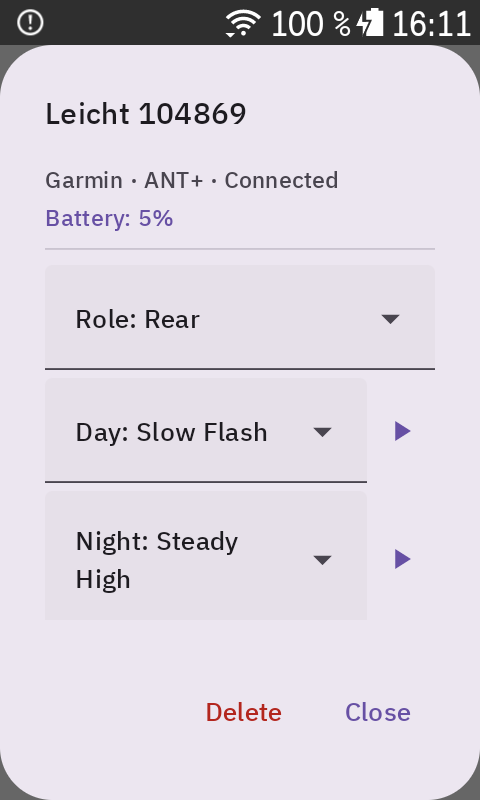
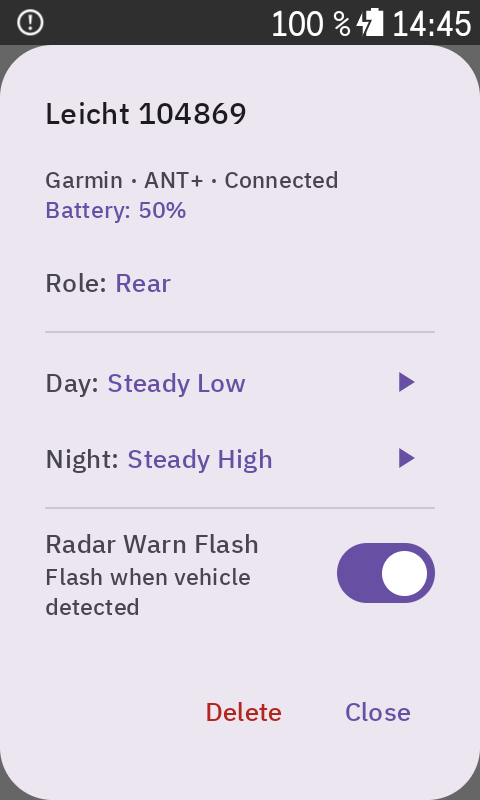
Add per-light radar warn flash and redesign light detail dialog
Radar warn flash: per-light toggle for rear lights that temporarily
switches to fast flash when radar detects approaching vehicle while
light is set to off. Uses karoo-ext SDK radar stream API.

Light detail dialog: replace bulky TextFields with compact inline
dropdowns, better visual structure with dividers.

diff --git a/app/src/main/kotlin/io/github/derstrassi/karoofirefly/ui/screens/LightDetailDialog.kt b/app/src/main/kotlin/io/github/derstrassi/karoofirefly/ui/screens/LightDetailDialog.kt
@@ -1,38 +1,34 @@
 package io.github.derstrassi.karoofirefly.ui.screens
 
+import androidx.compose.foundation.clickable
 import androidx.compose.foundation.layout.Arrangement
 import androidx.compose.foundation.layout.Column
 import androidx.compose.foundation.layout.Row
 import androidx.compose.foundation.layout.Spacer
 import androidx.compose.foundation.layout.fillMaxWidth
 import androidx.compose.foundation.layout.height
-import androidx.compose.foundation.layout.heightIn
 import androidx.compose.foundation.layout.padding
 import androidx.compose.foundation.layout.size
-import androidx.compose.foundation.layout.width
 import androidx.compose.foundation.rememberScrollState
 import androidx.compose.foundation.verticalScroll
 import androidx.compose.material.icons.Icons
 import androidx.compose.material.icons.filled.PlayArrow
 import androidx.compose.material3.AlertDialog
+import androidx.compose.material3.DropdownMenu
+import androidx.compose.material3.DropdownMenuItem
+import androidx.compose.material3.HorizontalDivider
 import androidx.compose.material3.Icon
 import androidx.compose.material3.IconButton
-import androidx.compose.material3.DropdownMenuItem
-import androidx.compose.material3.ExperimentalMaterial3Api
-import androidx.compose.material3.ExposedDropdownMenuBox
-import androidx.compose.material3.ExposedDropdownMenuDefaults
-import androidx.compose.material3.HorizontalDivider
 import androidx.compose.material3.MaterialTheme
-import androidx.compose.material3.MenuAnchorType
+import androidx.compose.material3.Switch
 import androidx.compose.material3.Text
 import androidx.compose.material3.TextButton
-import androidx.compose.material3.TextField
-import androidx.compose.ui.Alignment
 import androidx.compose.runtime.Composable
 import androidx.compose.runtime.getValue
 import androidx.compose.runtime.mutableStateOf
 import androidx.compose.runtime.remember
 import androidx.compose.runtime.setValue
+import androidx.compose.ui.Alignment
 import androidx.compose.ui.Modifier
 import androidx.compose.ui.unit.dp
 import io.github.derstrassi.karoofirefly.DiscoveredLight
@@ -42,7 +38,6 @@ import io.github.derstrassi.karoofirefly.data.LightProtocol
 import io.github.derstrassi.karoofirefly.data.LightRole
 import io.github.derstrassi.karoofirefly.data.modeProviderFor
 
-@OptIn(ExperimentalMaterial3Api::class)
 @Composable
 fun LightDetailDialog(
     light: DiscoveredLight,
@@ -56,6 +51,7 @@ fun LightDetailDialog(
     var role by remember(assignment) { mutableStateOf(assignment?.role) }
     var dayMode by remember(assignment) { mutableStateOf(assignment?.dayMode ?: "OFF") }
     var nightMode by remember(assignment) { mutableStateOf(assignment?.nightMode ?: "OFF") }
+    var radarWarnFlash by remember(assignment) { mutableStateOf(assignment?.radarWarnFlash ?: false) }
 
     fun save() {
         if (role != null) {
@@ -67,6 +63,7 @@ fun LightDetailDialog(
                     protocol = light.protocol,
                     dayMode = dayMode,
                     nightMode = nightMode,
+                    radarWarnFlash = radarWarnFlash,
                 ),
             )
         } else {
@@ -119,7 +116,6 @@ fun LightDetailDialog(
         title = { Text(light.name, style = MaterialTheme.typography.titleMedium) },
         text = {
             Column(modifier = Modifier.verticalScroll(rememberScrollState())) {
-                // Status info
                 val statusParts = listOfNotNull(
                     light.manufacturer,
                     protocolLabel,
@@ -135,7 +131,6 @@ fun LightDetailDialog(
                 light.batteryPercent?.let { telemetryParts.add("Battery: $it%") }
                 light.temperature?.let { telemetryParts.add("Temp: ${it}°C") }
                 if (telemetryParts.isNotEmpty()) {
-                    Spacer(modifier = Modifier.height(4.dp))
                     Text(
                         telemetryParts.joinToString("  "),
                         style = MaterialTheme.typography.bodySmall,
@@ -143,12 +138,9 @@ fun LightDetailDialog(
                     )
                 }
 
-                Spacer(modifier = Modifier.height(8.dp))
-                HorizontalDivider()
-                Spacer(modifier = Modifier.height(8.dp))
+                Spacer(modifier = Modifier.height(12.dp))
 
-                // Role selector
-                OptionDropdown(
+                InlineDropdown(
                     label = "Role",
                     selectedId = role?.name ?: "None",
                     options = listOf("FRONT" to "Front", "REAR" to "Rear", "None" to "None"),
@@ -168,8 +160,9 @@ fun LightDetailDialog(
                 )
 
                 if (role != null) {
-                    Spacer(modifier = Modifier.height(4.dp))
-                    LightModeWithTest(
+                    HorizontalDivider(modifier = Modifier.padding(vertical = 8.dp))
+
+                    ModeRow(
                         label = "Day",
                         selectedMode = dayMode,
                         modes = modes,
@@ -179,7 +172,7 @@ fun LightDetailDialog(
                         } else null,
                     )
                     Spacer(modifier = Modifier.height(4.dp))
-                    LightModeWithTest(
+                    ModeRow(
                         label = "Night",
                         selectedMode = nightMode,
                         modes = modes,
@@ -188,6 +181,28 @@ fun LightDetailDialog(
                             { onTestMode(light.id, nightMode) }
                         } else null,
                     )
+
+                    if (role == LightRole.REAR) {
+                        HorizontalDivider(modifier = Modifier.padding(vertical = 8.dp))
+                        Row(
+                            modifier = Modifier.fillMaxWidth(),
+                            horizontalArrangement = Arrangement.SpaceBetween,
+                            verticalAlignment = Alignment.CenterVertically,
+                        ) {
+                            Column(modifier = Modifier.weight(1f)) {
+                                Text("Radar Warn Flash")
+                                Text(
+                                    "Flash when vehicle detected",
+                                    style = MaterialTheme.typography.bodySmall,
+                                    color = MaterialTheme.colorScheme.onSurfaceVariant,
+                                )
+                            }
+                            Switch(
+                                checked = radarWarnFlash,
+                                onCheckedChange = { radarWarnFlash = it; save() },
+                            )
+                        }
+                    }
                 }
             }
         },
@@ -195,15 +210,18 @@ fun LightDetailDialog(
 }
 
 @Composable
-private fun LightModeWithTest(
+private fun ModeRow(
     label: String,
     selectedMode: String,
     modes: List<LightModeOption>,
     onSelected: (String) -> Unit,
     onTest: (() -> Unit)?,
 ) {
-    Row(verticalAlignment = Alignment.CenterVertically) {
-        OptionDropdown(
+    Row(
+        modifier = Modifier.fillMaxWidth(),
+        verticalAlignment = Alignment.CenterVertically,
+    ) {
+        InlineDropdown(
             label = label,
             selectedId = selectedMode,
             options = modes.map { it.id to it.displayName },
@@ -211,7 +229,7 @@ private fun LightModeWithTest(
             modifier = Modifier.weight(1f),
         )
         if (onTest != null) {
-            IconButton(onClick = onTest, modifier = Modifier.size(36.dp)) {
+            IconButton(onClick = onTest, modifier = Modifier.size(32.dp)) {
                 Icon(
                     Icons.Default.PlayArrow,
                     contentDescription = "Test $label",
@@ -223,9 +241,8 @@ private fun LightModeWithTest(
     }
 }
 
-@OptIn(ExperimentalMaterial3Api::class)
 @Composable
-private fun OptionDropdown(
+private fun InlineDropdown(
     label: String,
     selectedId: String,
     options: List<Pair<String, String>>,
@@ -235,19 +252,23 @@ private fun OptionDropdown(
     var expanded by remember { mutableStateOf(false) }
     val displayName = options.find { it.first == selectedId }?.second ?: selectedId
 
-    ExposedDropdownMenuBox(
-        expanded = expanded,
-        onExpandedChange = { expanded = it },
-        modifier = modifier,
+    Row(
+        modifier = modifier
+            .clickable { expanded = true }
+            .padding(vertical = 8.dp),
+        verticalAlignment = Alignment.CenterVertically,
     ) {
-        TextField(
-            value = "$label: $displayName",
-            onValueChange = {},
-            readOnly = true,
-            trailingIcon = { ExposedDropdownMenuDefaults.TrailingIcon(expanded) },
-            modifier = Modifier.menuAnchor(MenuAnchorType.PrimaryNotEditable).fillMaxWidth(),
+        Text(
+            "$label: ",
+            style = MaterialTheme.typography.bodyMedium,
+            color = MaterialTheme.colorScheme.onSurfaceVariant,
         )
-        ExposedDropdownMenu(
+        Text(
+            displayName,
+            style = MaterialTheme.typography.bodyMedium,
+            color = MaterialTheme.colorScheme.primary,
+        )
+        DropdownMenu(
             expanded = expanded,
             onDismissRequest = { expanded = false },
         ) {

diff --git a/app/src/main/kotlin/io/github/derstrassi/karoofirefly/KarooLightControllerExtension.kt b/app/src/main/kotlin/io/github/derstrassi/karoofirefly/KarooLightControllerExtension.kt
@@ -7,6 +7,9 @@ import io.hammerhead.karooext.models.PlayBeepPattern
 import io.hammerhead.karooext.models.OnLocationChanged
 import io.hammerhead.karooext.models.ReleaseBluetooth
 import io.hammerhead.karooext.models.RequestBluetooth
+import io.hammerhead.karooext.models.DataType
+import io.hammerhead.karooext.models.OnStreamState
+import io.hammerhead.karooext.models.StreamState
 import io.hammerhead.karooext.models.RideState
 import io.hammerhead.karooext.models.SavedDevices
 import io.github.derstrassi.karoofirefly.ble.MagicshineBleController
@@ -72,6 +75,8 @@ class KarooLightControllerExtension : KarooExtension("karoo-light-controller", B
     val discoveredLights: StateFlow<List<DiscoveredLight>> = _discoveredLights
 
     private var savedDevicesConsumerId: String? = null
+    private var radarConsumerId: String? = null
+    @Volatile private var radarThreatActive = false
     private var bleStartJob: kotlinx.coroutines.Job? = null
     private var discoveryPollingJob: kotlinx.coroutines.Job? = null
     @Volatile private var settingsUiActive = false
@@ -106,6 +111,7 @@ class KarooLightControllerExtension : KarooExtension("karoo-light-controller", B
                 val modeName = if (zone == null) "OFF" else assignment.modeForZone(zone)
                 lightControllers[assignment.protocol]?.setMode(assignment.deviceId, modeName)
             }
+            updateRadarMonitoring()
         }
 
         engine.onZoneChange = { oldZone, newZone, reason ->
@@ -162,11 +168,13 @@ class KarooLightControllerExtension : KarooExtension("karoo-light-controller", B
                 rideActive = true
                 engine.onRideStart()
                 startDiscoveryPolling()
+                updateRadarMonitoring()
             }
             is RideState.Paused -> engine.onRidePause()
             is RideState.Idle -> {
                 rideActive = false
                 stopDiscoveryPolling()
+                stopRadarMonitoring()
                 engine.onRideStop()
             }
         }
@@ -198,8 +206,9 @@ class KarooLightControllerExtension : KarooExtension("karoo-light-controller", B
 
     fun testMode(deviceId: String, modeName: String) {
         val assignment = engine.settings.lightAssignments.find { it.deviceId == deviceId } ?: return
+        val effectiveMode = modeName
         extensionScope.launch {
-            lightControllers[assignment.protocol]?.setMode(deviceId, modeName)
+            lightControllers[assignment.protocol]?.setMode(deviceId, effectiveMode)
             kotlinx.coroutines.delay(3000)
             lightControllers[assignment.protocol]?.setMode(deviceId, "OFF")
         }
@@ -212,6 +221,7 @@ class KarooLightControllerExtension : KarooExtension("karoo-light-controller", B
             magicshineController.connect(id)
         }
         startBleIfNeeded()
+        updateRadarMonitoring()
     }
 
     fun setSettingsUiActive(active: Boolean) {
@@ -389,9 +399,54 @@ class KarooLightControllerExtension : KarooExtension("karoo-light-controller", B
         )
     }
 
+    private fun updateRadarMonitoring() {
+        val needsRadar = engine.settings.lightAssignments.any { it.radarWarnFlash }
+        if (needsRadar) startRadarMonitoring() else stopRadarMonitoring()
+    }
+
+    private fun startRadarMonitoring() {
+        if (radarConsumerId != null) return
+        Timber.d("$TAG: Starting radar monitoring")
+        radarConsumerId = karooSystem.addConsumer(
+            OnStreamState.StartStreaming(DataType.Type.RADAR),
+        ) { event: OnStreamState ->
+            if (event.state is StreamState.Streaming) {
+                val values = (event.state as StreamState.Streaming).dataPoint.values
+                val threat = values[DataType.Field.RADAR_THREAT_LEVEL]?.toInt() ?: 0
+                onRadarThreat(threat > 0)
+            }
+        }
+    }
+
+    private fun stopRadarMonitoring() {
+        radarConsumerId?.let {
+            Timber.d("$TAG: Stopping radar monitoring")
+            karooSystem.removeConsumer(it)
+        }
+        radarConsumerId = null
+        radarThreatActive = false
+    }
+
+    private fun onRadarThreat(threatDetected: Boolean) {
+        if (threatDetected == radarThreatActive) return
+        radarThreatActive = threatDetected
+        Timber.d("$TAG: Radar threat=${if (threatDetected) "DETECTED" else "CLEAR"}")
+
+        for (assignment in engine.settings.lightAssignments) {
+            if (!assignment.radarWarnFlash) continue
+            val zone = engine.activeZone.value
+            val currentMode = if (zone == null) "OFF" else assignment.modeForZone(zone)
+            if (currentMode != "OFF") continue
+
+            val modeName = if (threatDetected) "FAST_FLASH" else "OFF"
+            lightControllers[assignment.protocol]?.setMode(assignment.deviceId, modeName)
+        }
+    }
+
     override fun onDestroy() {
         Timber.d("$TAG: Extension onDestroy")
         instance = null
+        stopRadarMonitoring()
         engine.destroy()
         magicshineController.destroy()
         lightControl.unbind()

diff --git a/app/src/main/kotlin/io/github/derstrassi/karoofirefly/data/LightProfile.kt b/app/src/main/kotlin/io/github/derstrassi/karoofirefly/data/LightProfile.kt
@@ -30,6 +30,7 @@ data class LightAssignment(
     val protocol: LightProtocol = LightProtocol.ANT_PLUS,
     val dayMode: String = "OFF",
     val nightMode: String = "OFF",
+    val radarWarnFlash: Boolean = false,
 ) {
     fun modeForZone(zone: DayTimeZone): String = when (zone) {
         DayTimeZone.DAY -> dayMode

diff --git a/README.md b/README.md
@@ -36,6 +36,7 @@ Controls ANT+ and Bluetooth bike lights from your Karoo. Unlike Karoo's built-in
 - Two zones: Day and Night with clear "Day starts at" / "Night starts at" times
 - Zone change notifications with sound during rides (configurable)
 - Auto on/off with ride start/stop, optional auto-off on pause
+- **Radar Warn Flash** — per-light option for rear lights: automatically flashes when radar detects approaching vehicle (for lights like Garmin Varia that don't flash autonomously when set to Off)
 - Battery level and temperature readout for Magicshine BLE lights
 - Test buttons to preview light modes from settings
 - BonusActions mappable to AXS shift buttons or Karoo hardware buttons:
@@ -70,6 +71,7 @@ Each light has its own configuration dialog with:
 - Role assignment (Front / Rear)
 - Day and Night mode selection with protocol-specific modes
 - Test buttons to preview each mode for 3 seconds
+- Radar Warn Flash toggle (rear lights only) — flashes when radar detects a vehicle while light is off
 - Battery level and temperature (BLE lights)
 - Delete option to remove configuration
 
